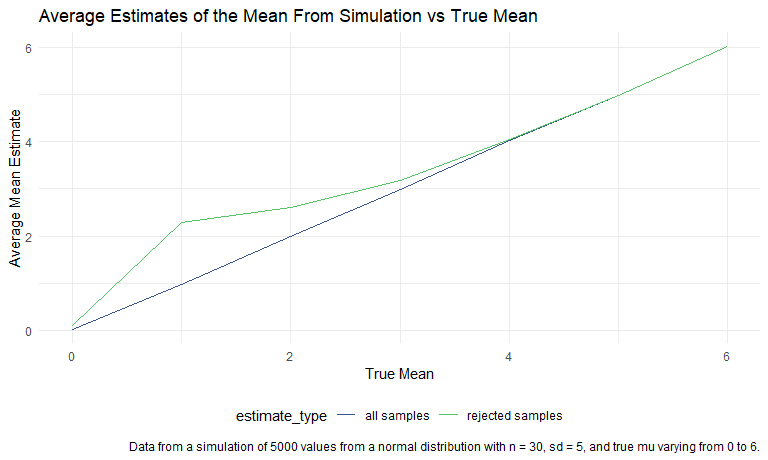
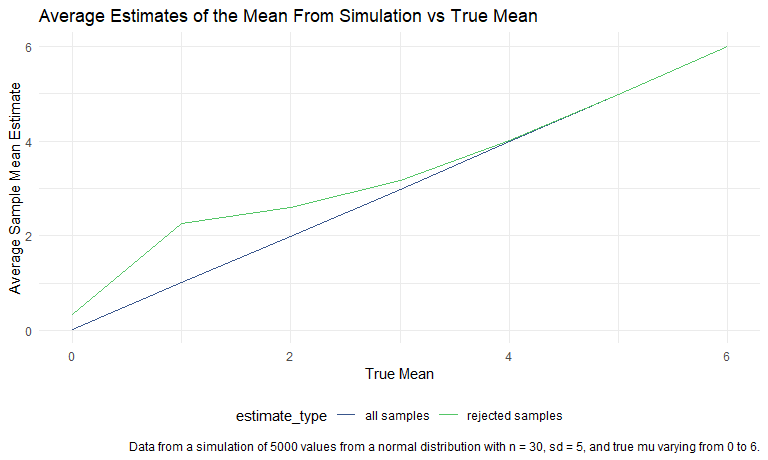
Fixed an axis title for question 3

diff --git a/p8105_hw5_sn2863.md b/p8105_hw5_sn2863.md
@@ -235,7 +235,7 @@ bind_rows(estimate_df, estimate_reject_df) %>%
   labs(
     title = "Average Estimates of the Mean From Simulation vs True Mean",
     x = "True Mean",
-    y = "Average Mean Estimate",
+    y = "Average Sample Mean Estimate",
     caption = "Data from a simulation of 5000 values from a normal distribution with n = 30, sd = 5, and true mu varying from 0 to 6."
     ) 
 ```
